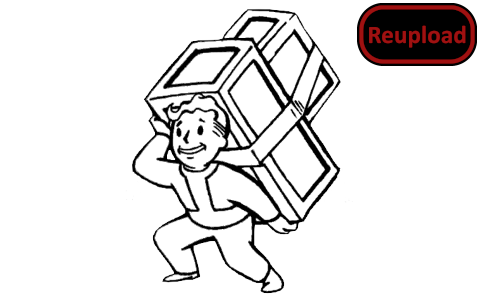
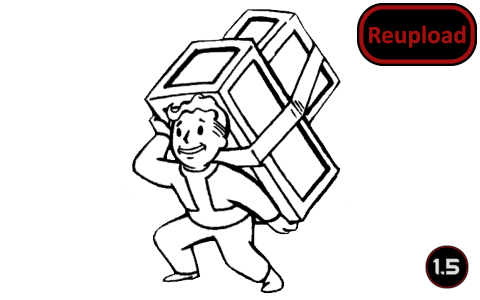
Mod updated for 1.5 and passed autotests

Changed region(s): [[0.875, 0.81, 1.0, 0.96]]

diff --git a/README.md b/README.md
@@ -28,11 +28,13 @@ A tiny mod made while one of BaRKy's streams.
 
 -  See if the the error persists if you just have this mod and its requirements active.
 -  If not, try adding your other mods until it happens again.
--  Post your error-log using https://steamcommunity.com/workshop/filedetails/?id=818773962]HugsLib and command Ctrl+F12
+-  Post your error-log using https://steamcommunity.com/workshop/filedetails/?id=818773962]HugsLib or the standalone https://steamcommunity.com/sharedfiles/filedetails/?id=2873415404]Uploader and command Ctrl+F12
 -  For best support, please use the Discord-channel for error-reporting.
 -  Do not report errors by making a discussion-thread, I get no notification of that.
 -  If you have the solution for a problem, please post it to the GitHub repository.
+-  Use https://github.com/RimSort/RimSort/releases/latest]RimSort to sort your mods
 
 
 
+https://steamcommunity.com/sharedfiles/filedetails/changelog/2014572849]![Image](https://img.shields.io/github/v/release/emipa606/MercersBackpacks?label=latest%20version&style=plastic&color=9f1111&labelColor=black)
 
